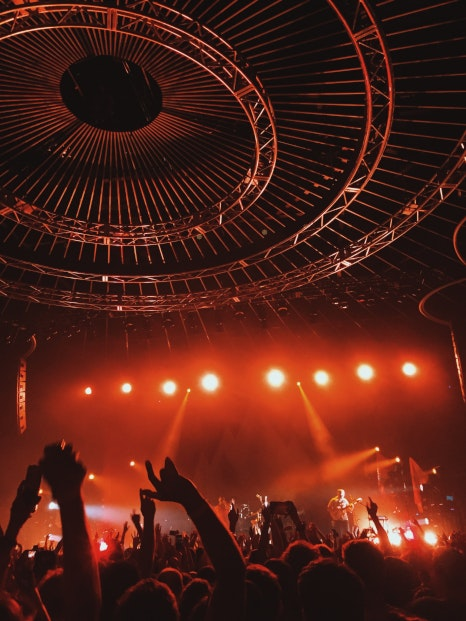
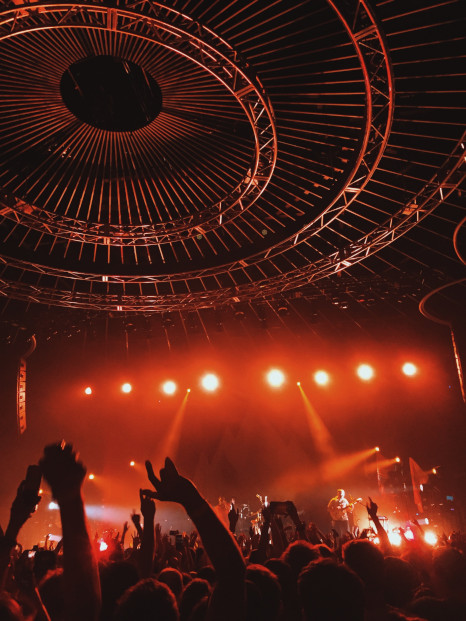
Compression des images de la gallery

diff --git a/index.html b/index.html
@@ -20,7 +20,7 @@
 	<meta name="twitter:title" content="Nina Carducci Photographie" />
 	<meta name="twitter:description" content="Découvrez mes photos, mes services et mes tarifs" />
 	<meta name="twitter:image" content="./assets/images/nina.png" />
-	<meta name="twitter:url" content="http://monsiteweb.fr/ma-page-qui-dechire" />
+	<meta name="twitter:url" content="https://ninacarducci.github.io/" />
 
 	<link rel="stylesheet" href="./assets/bootstrap/bootstrap.css">
 	<link rel="stylesheet" href="./assets/style.css">
@@ -33,10 +33,10 @@
 	<link rel="preload" href="./assets/images/slider/deux-hommes-bras-leves-foule-1920.jpg" as="image">
 	<link rel="preload" href="./assets/images/slider/couple-maries-s-embrassant-1920.webp" as="image">
 	<link rel="preload" href="./assets/images/slider/couple-maries-s-embrassant-1920.jpg" as="image">
-	<script src="./assets/bootstrap/bootstrap.bundle.js"></script>
-	<script src="https://code.jquery.com/jquery-3.4.1.min.js" integrity="sha256-CSXorXvZcTkaix6Yvo6HppcZGetbYMGWSFlBw8HfCJo=" crossorigin="anonymous"></script>
-	<script src="./assets/maugallery.js"></script>
-	<script src="./assets/scripts.js"></script>
+	<script src="./assets/bootstrap/bootstrap.bundle.js" async></script>
+	<script src="https://code.jquery.com/jquery-3.4.1.min.js" integrity="sha256-CSXorXvZcTkaix6Yvo6HppcZGetbYMGWSFlBw8HfCJo=" crossorigin="anonymous" defer></script>
+	<script src="./assets/maugallery.js" defer></script>
+	<script src="./assets/scripts.js" defer></script>
 
 </head>
 <body>
@@ -96,7 +96,7 @@
 			</div>
 		</section>
 
-		<article id="about" >
+		<section id="about" >
 			<div class="picture left">
 				<picture> 
 					<source type="image/webp" srcset="./assets/images/nina.webp">
@@ -109,7 +109,7 @@
 				<p>Nous passons notre vie à chercher le bonheur, et lorsque nous y touchons, nous n’avons qu’une envie : le figer au travers de photographies pour le savourer avec les personnes qui sont importantes à nos yeux, ou le partager au plus grand nombre.
 				C’est ce que je vous propose : saisir ces merveilleux moments au travers de mon regard, mon approche, ma technique. Rendre ces moments immortels, afin que vous puissiez y puiser de l’amour, du bonheur, de la tendresse et de lumière à chaque fois que vous poserez les yeux sur vos photos.</p>
 			</div>
-		</article>
+		</section>
 		<section id="gallery">
 			<h2 class="title">Portfolio</h2>
 			<div class="container py-3">
@@ -119,11 +119,11 @@
 						<source type="image/jpeg" srcset="./assets/images/gallery/concerts/photo-concert.jpg"> 
 						<img src="./assets/images/gallery/concerts/photo-concert.jpg" alt="photo d'un concert"/>
 					</picture>		
-					<picture data-gallery-tag="Entreprises" class="gallery-item"> 
-						<source type="image/webp" srcset="./assets/images/gallery/entreprise/homme-en-costume.webp"> 
-						<source type="image/jpeg" srcset="./assets/images/gallery/entreprise/homme-en-costume.jpg"> 
-						<img src="./assets/images/gallery/entreprise/homme-en-costume.jpg" alt="photo d'un homme en costume"/>
-					</picture>			
+						<picture data-gallery-tag="Entreprises" class="gallery-item"> 
+							<source type="image/webp" srcset="./assets/images/gallery/entreprise/homme-en-costume.webp"> 
+							<source type="image/jpeg" srcset="./assets/images/gallery/entreprise/homme-en-costume.jpg"> 
+							<img src="./assets/images/gallery/entreprise/homme-en-costume.jpg" alt="photo d'un homme en costume"/>
+						</picture>			
 					<picture data-gallery-tag="Entreprises" class="gallery-item"> 
 						<source type="image/webp" srcset="./assets/images/gallery/entreprise/femme-souriant-arriere-plan.webp"> 
 						<source type="image/jpeg" srcset="./assets/images/gallery/entreprise/femme-souriant-arriere-plan.jpg"> 
